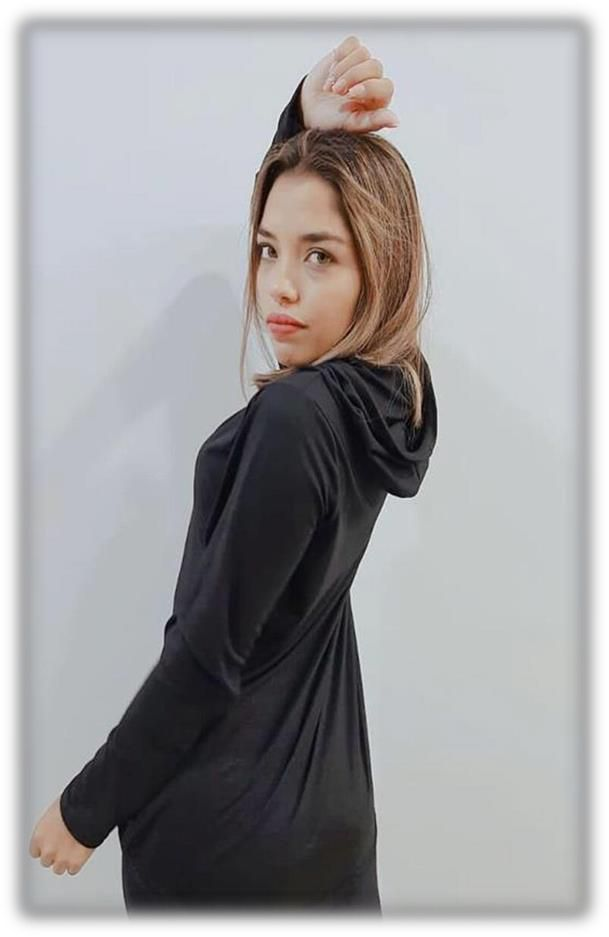
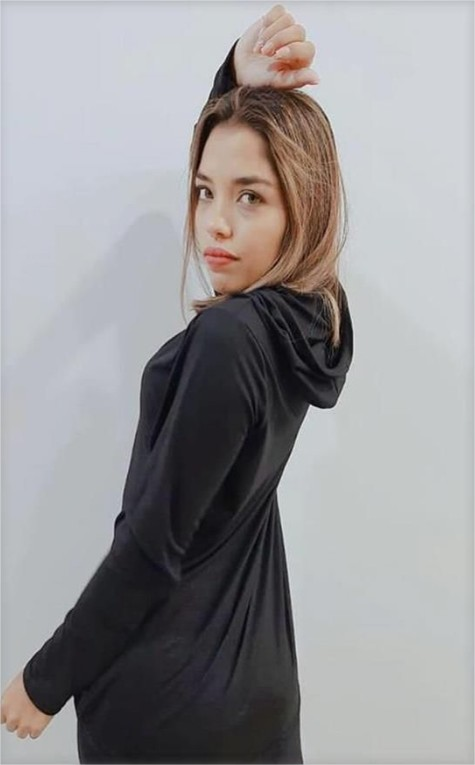
Upgrade en Articulos
Ng if para el caroussel, no se muestra si la lista de otrasFotos es vacia
Ngfor para recorrer esa lista de fotos

diff --git a/src/services/ropa.service.ts b/src/services/ropa.service.ts
@@ -11,6 +11,7 @@ export class RopaService{
             colores: ['Negro', 'Blanco', 'Rosa viejo', 'Rojo', 'Camel', 'Mostaza'],
             fotoPrincipal: 'assets/img/buzo-capucha/buzo-capucha.jpg',
             precio: 99,
+            otrasFotos: ['assets/img/buzo-capucha/buzo-capucha2.jpg', 'assets/img/buzo-capucha/buzo-capucha1.jpg']
         },
         {
             id: 1,
@@ -19,6 +20,7 @@ export class RopaService{
             colores: ['Negro', 'Blanco', 'Rojo', 'Celeste', 'Francia', 'Rosa', 'Coral', 'Terracota', 'Camel', 'Verde', 'Rayas B/N', 'Rayas N/B'],
             fotoPrincipal: 'assets/img/camisa-fibrana/camisa-fibrana.jpg',
             precio: 180,
+            otrasFotos: []
         },
         {
             id: 2,
@@ -27,6 +29,7 @@ export class RopaService{
             colores: ['Negro', 'Blanco', 'Rosa', 'Bordo', 'Francia', 'Verde', 'Mostaza', 'Navy', 'Coral'],
             fotoPrincipal: 'assets/img/camisola-fibrana/camisola-fibrana.jpg',
             precio: 99,
+            otrasFotos: []
         },
         {
             id: 3,
@@ -35,6 +38,7 @@ export class RopaService{
             colores: [],
             fotoPrincipal: 'assets/img/basica-manga-corta/basica-manga-corta2.jpg',
             precio: 340,
+            otrasFotos: []
         },
         {
             id: 4,
@@ -43,6 +47,7 @@ export class RopaService{
             colores: [],
             fotoPrincipal: 'assets/img/basica-manga-larga/basica-manga-larga.jpg',
             precio: 420,
+            otrasFotos: []
         },
         {
             id: 5,
@@ -51,6 +56,7 @@ export class RopaService{
             colores: [],
             fotoPrincipal: 'assets/img/chomba-modal/chomba-modal.jpg',
             precio: 460,
+            otrasFotos: []
         },
         {
             id: 6,
@@ -59,6 +65,7 @@ export class RopaService{
             colores: [],
             fotoPrincipal: 'assets/img/polera-modal/polera-modal.jpg',
             precio: 420,
+            otrasFotos: []
         },
         {
             id: 7,
@@ -67,6 +74,7 @@ export class RopaService{
             colores: [],
             fotoPrincipal: 'assets/img/campera-capucha/campera-capucha.jpg',
             precio: 530,
+            otrasFotos: []
         },
         {
             id: 8,
@@ -75,6 +83,7 @@ export class RopaService{
             colores: [],
             fotoPrincipal: 'assets/img/sweater-pupero/sweater-pupero.jpg',
             precio: 490,
+            otrasFotos: []
         },
         {
             id: 8,
@@ -83,6 +92,7 @@ export class RopaService{
             colores: [],
             fotoPrincipal: 'assets/img/sweater-polera/sweater-polera.jpg',
             precio: 550,
+            otrasFotos: []
         },
         {
             id: 9,
@@ -91,6 +101,7 @@ export class RopaService{
             colores: [],
             fotoPrincipal: 'assets/img/sweater/sweater.jpg',
             precio: 500,
+            otrasFotos: []
         },
         {
             id: 10,
@@ -99,6 +110,7 @@ export class RopaService{
             colores: [],
             fotoPrincipal: 'assets/img/sweater-cuello-bote/sweater-cuello-bote.jpg',
             precio: 500,
+            otrasFotos: []
         },
         {
             id: 11,
@@ -107,6 +119,7 @@ export class RopaService{
             colores: [],
             fotoPrincipal: 'assets/img/calza-algodon/calza-algodon.jpg',
             precio: 660,
+            otrasFotos: []
         },
         {
             id: 12,
@@ -115,6 +128,7 @@ export class RopaService{
             colores: [],
             fotoPrincipal: 'assets/img/calza-lycra/calza-lycra.jpg',
             precio: 660,
+            otrasFotos: []
         },
     ];
 
@@ -141,7 +155,7 @@ export interface Ropa{
     talles: string[];
     colores: string [];
     fotoPrincipal: string;
-    otrasFotos?: string[];
+    otrasFotos: string[];
     precio: number;
 }
 

diff --git a/src/app/components/prenda/prenda.component.html b/src/app/components/prenda/prenda.component.html
@@ -2,7 +2,7 @@
     <h1>{{ articulo.nombre | capitalizar:false }}</h1>
     <hr>
     <div class="row">
-        <div class="container-fluid col-md-4">
+        <div class="container-fluid col-md-6">
             <img [src]="articulo.fotoPrincipal" alt="">
         </div>
 
@@ -29,31 +29,23 @@
     </div>
 </div>
 
-<div class="mt-20 mb-10 container">
+<div class="mt-20 mb-10 container" *ngIf="articulo.otrasFotos.length > 0">
     <h1> <small>Galeria de fotos</small> </h1>
     <hr>
-    <div id="carouselExampleIndicators" class="carousel slide" data-ride="carousel">
+    <div id="carouselExampleCaptions" class="carousel slide" data-ride="carousel">
         <ol class="carousel-indicators">
-            <li data-target="#carouselExampleIndicators" data-slide-to="0" class="active"></li>
-            <li data-target="#carouselExampleIndicators" data-slide-to="1"></li>
-            <li data-target="#carouselExampleIndicators" data-slide-to="2"></li>
+            <li data-target="#carouselExampleCaptions" *ngFor="let item of articulo.otrasFotos;let index = index" [attr.data-slide-to]="index"></li>
         </ol>
         <div class="carousel-inner">
-            <div class="carousel-item active">
-                <img [src]="articulo.fotoPrincipal" class="d-block w-90" alt="...">
-            </div>
-            <div class="carousel-item">
-                <img [src]="articulo.fotoPrincipal" class="d-block w-90" alt="...">
-            </div>
-            <div class="carousel-item">
-                <img [src]="articulo.fotoPrincipal" class="d-block w-90" alt="...">
+            <div class="carousel-item" *ngFor="let item of articulo.otrasFotos;let index = index;let isFirst = first" [ngClass]="{active:isFirst}">
+                <img [src]="item" class="d-block w-90" [alt]="item.title">
             </div>
         </div>
-        <a class="carousel-control-prev" href="#carouselExampleIndicators" role="button" data-slide="prev">
+        <a class="carousel-control-prev" href="#carouselExampleCaptions" role="button" data-slide="prev">
             <span class="carousel-control-prev-icon" aria-hidden="true"></span>
             <span class="sr-only">Previous</span>
         </a>
-        <a class="carousel-control-next" href="#carouselExampleIndicators" role="button" data-slide="next">
+        <a class="carousel-control-next" href="#carouselExampleCaptions" role="button" data-slide="next">
             <span class="carousel-control-next-icon" aria-hidden="true"></span>
             <span class="sr-only">Next</span>
         </a>

diff --git a/src/app/components/home/home.component.html b/src/app/components/home/home.component.html
@@ -1,4 +1,4 @@
-<div>
-    <img class="container-fluid" src="../../../assets/fondo-test.png" alt="">
+<div class="container-fluid mb-5">
+    <img class="container-fluid" src="assets/img/koq-fondo.jpg" alt="">
 
 </div>
